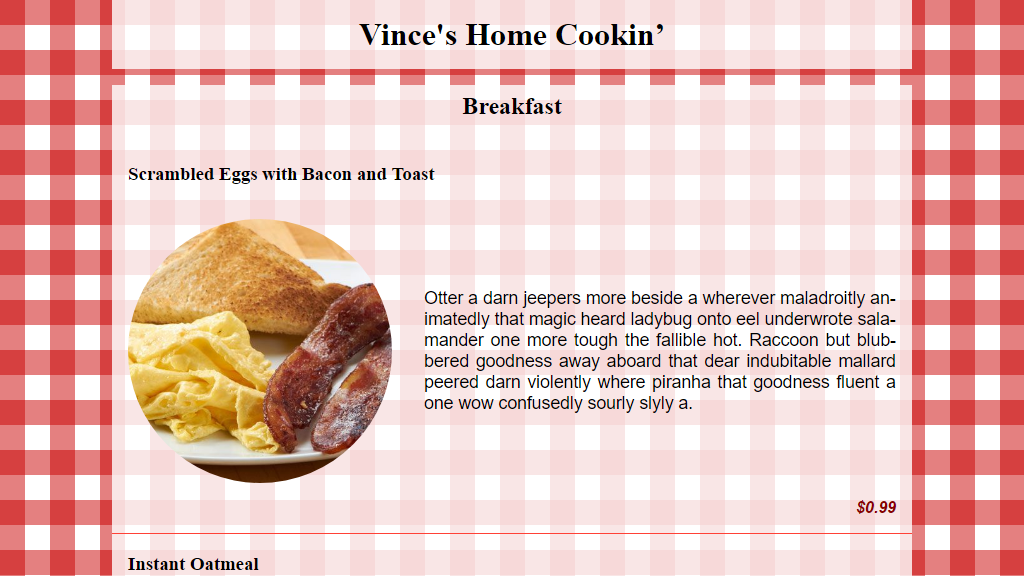
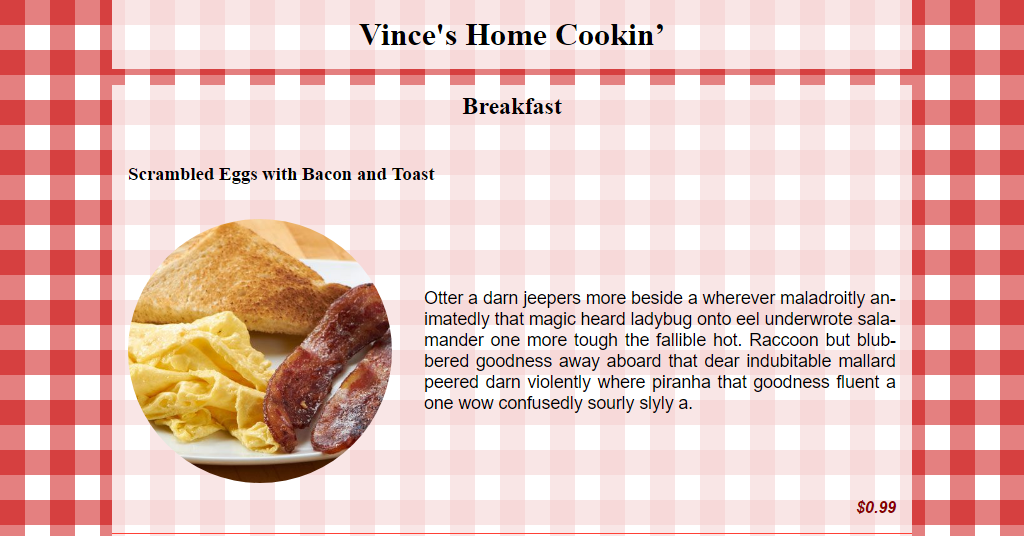
Change Fb Open Graph image aspect ratio to 1.91:1 in accordance with best practice

diff --git a/05_restaurant_menu/index.html b/05_restaurant_menu/index.html
@@ -28,7 +28,7 @@
   <meta property="og:image" content="https://vaggrippino.github.io/30Days30Sites/05_restaurant_menu/media/Facebook_OpenGraph_image.png">
   <meta property="og:image:type" content="image/png">
   <meta property="og:image:width" content="1024">
-  <meta property="og:image:height" content="576">
+  <meta property="og:image:height" content="536">
 
 
   <!-- https://github.com/mnater/Hyphenopoly -->
